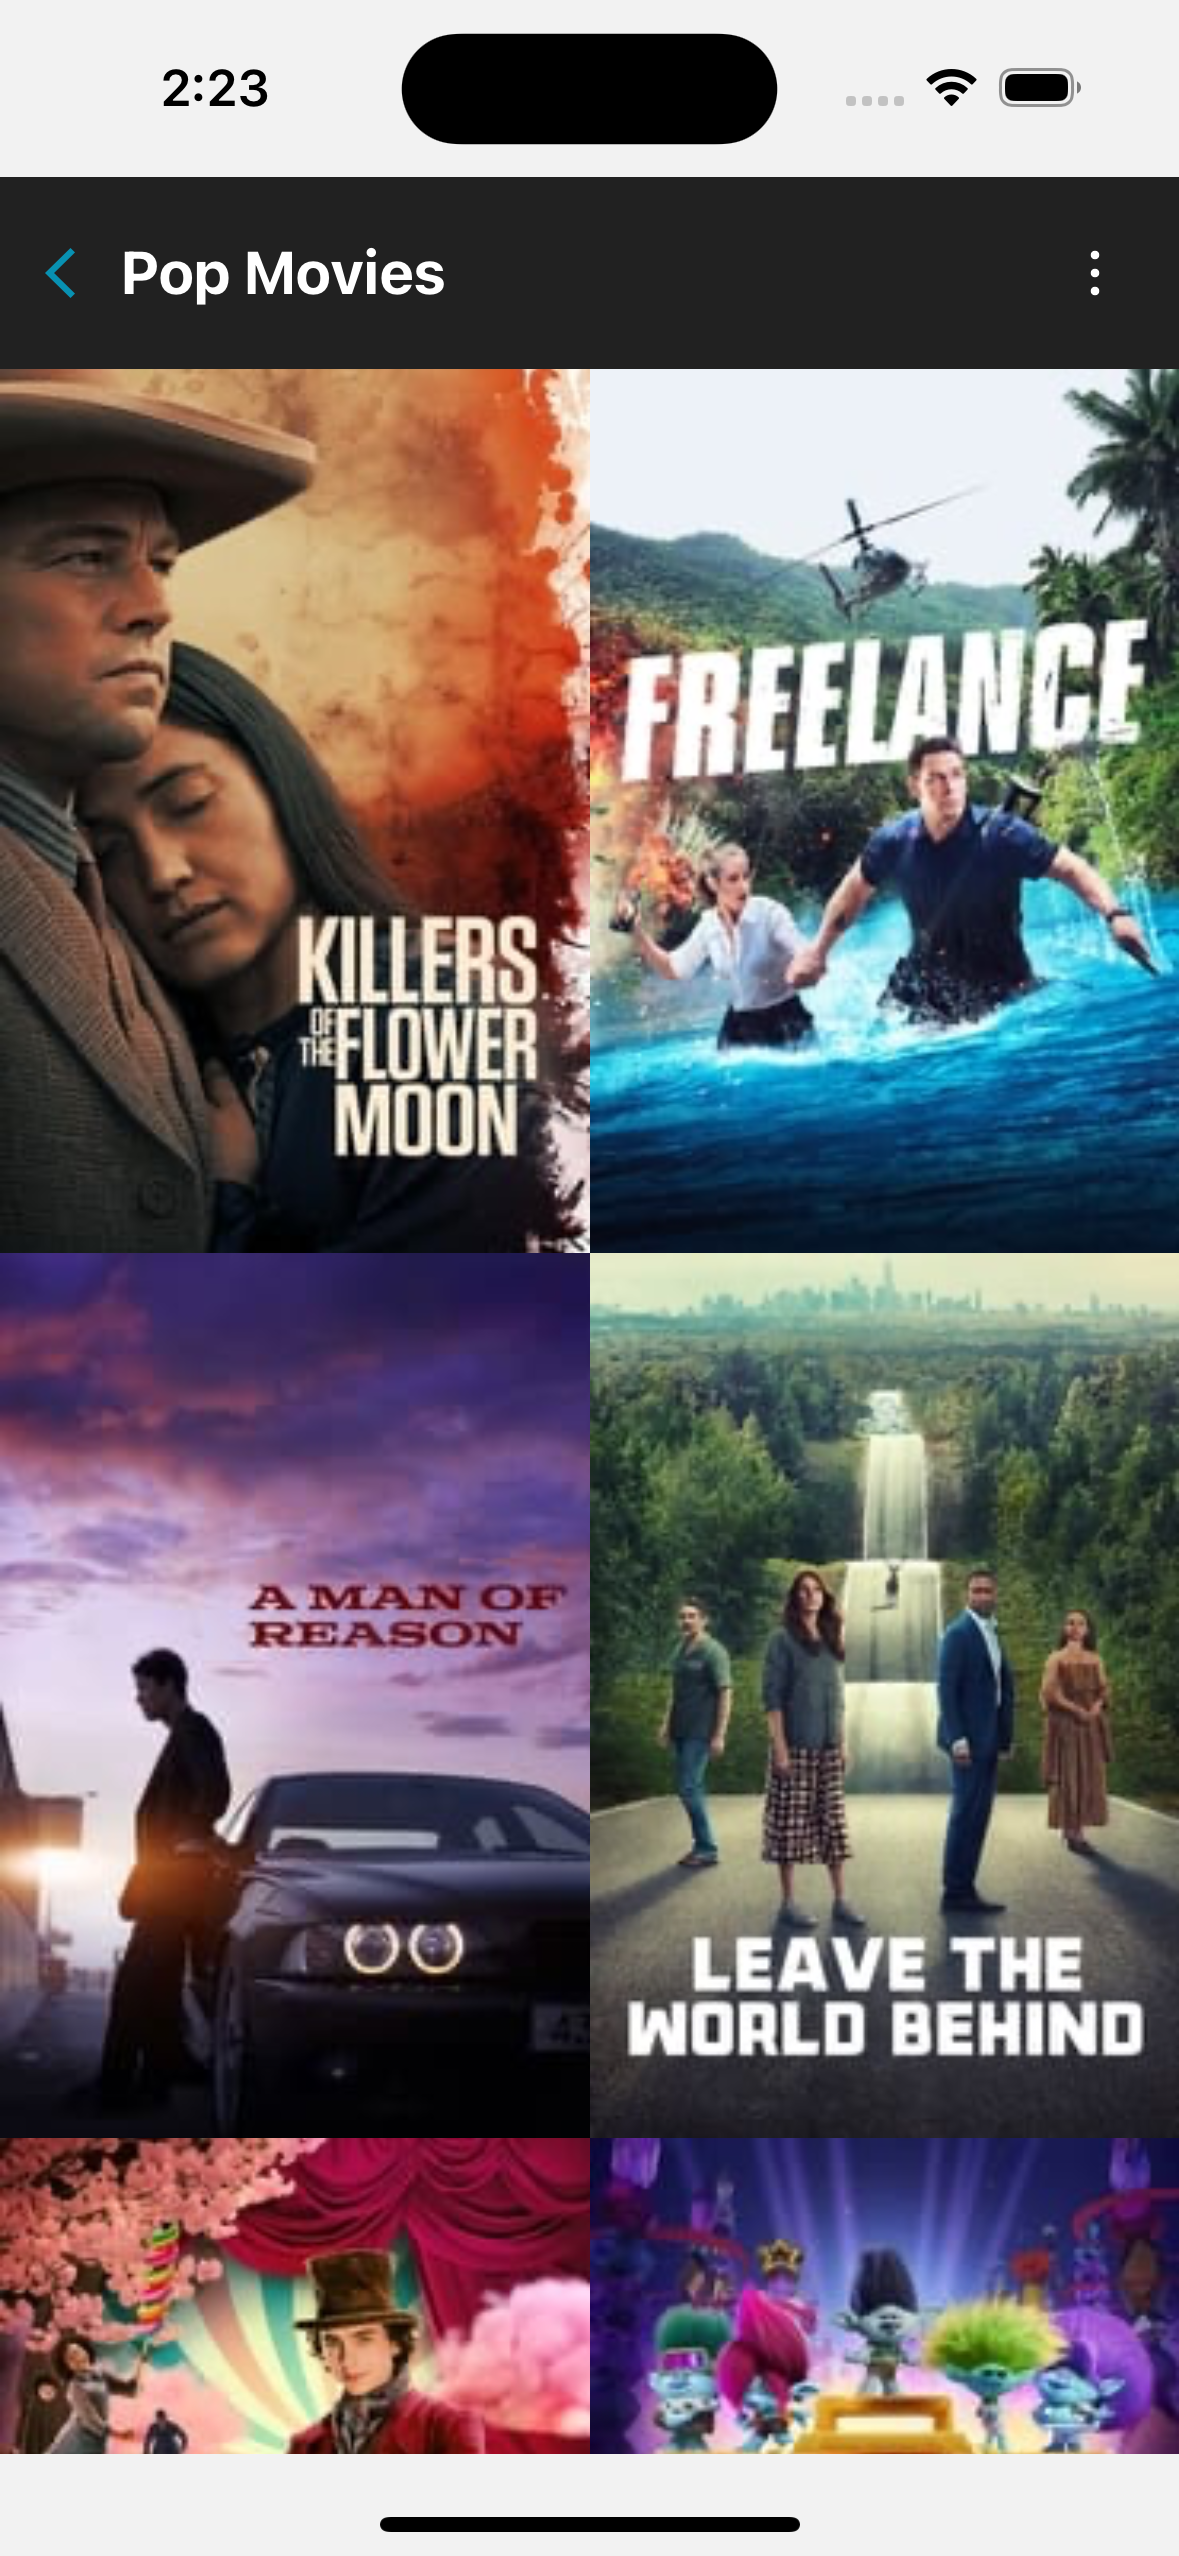
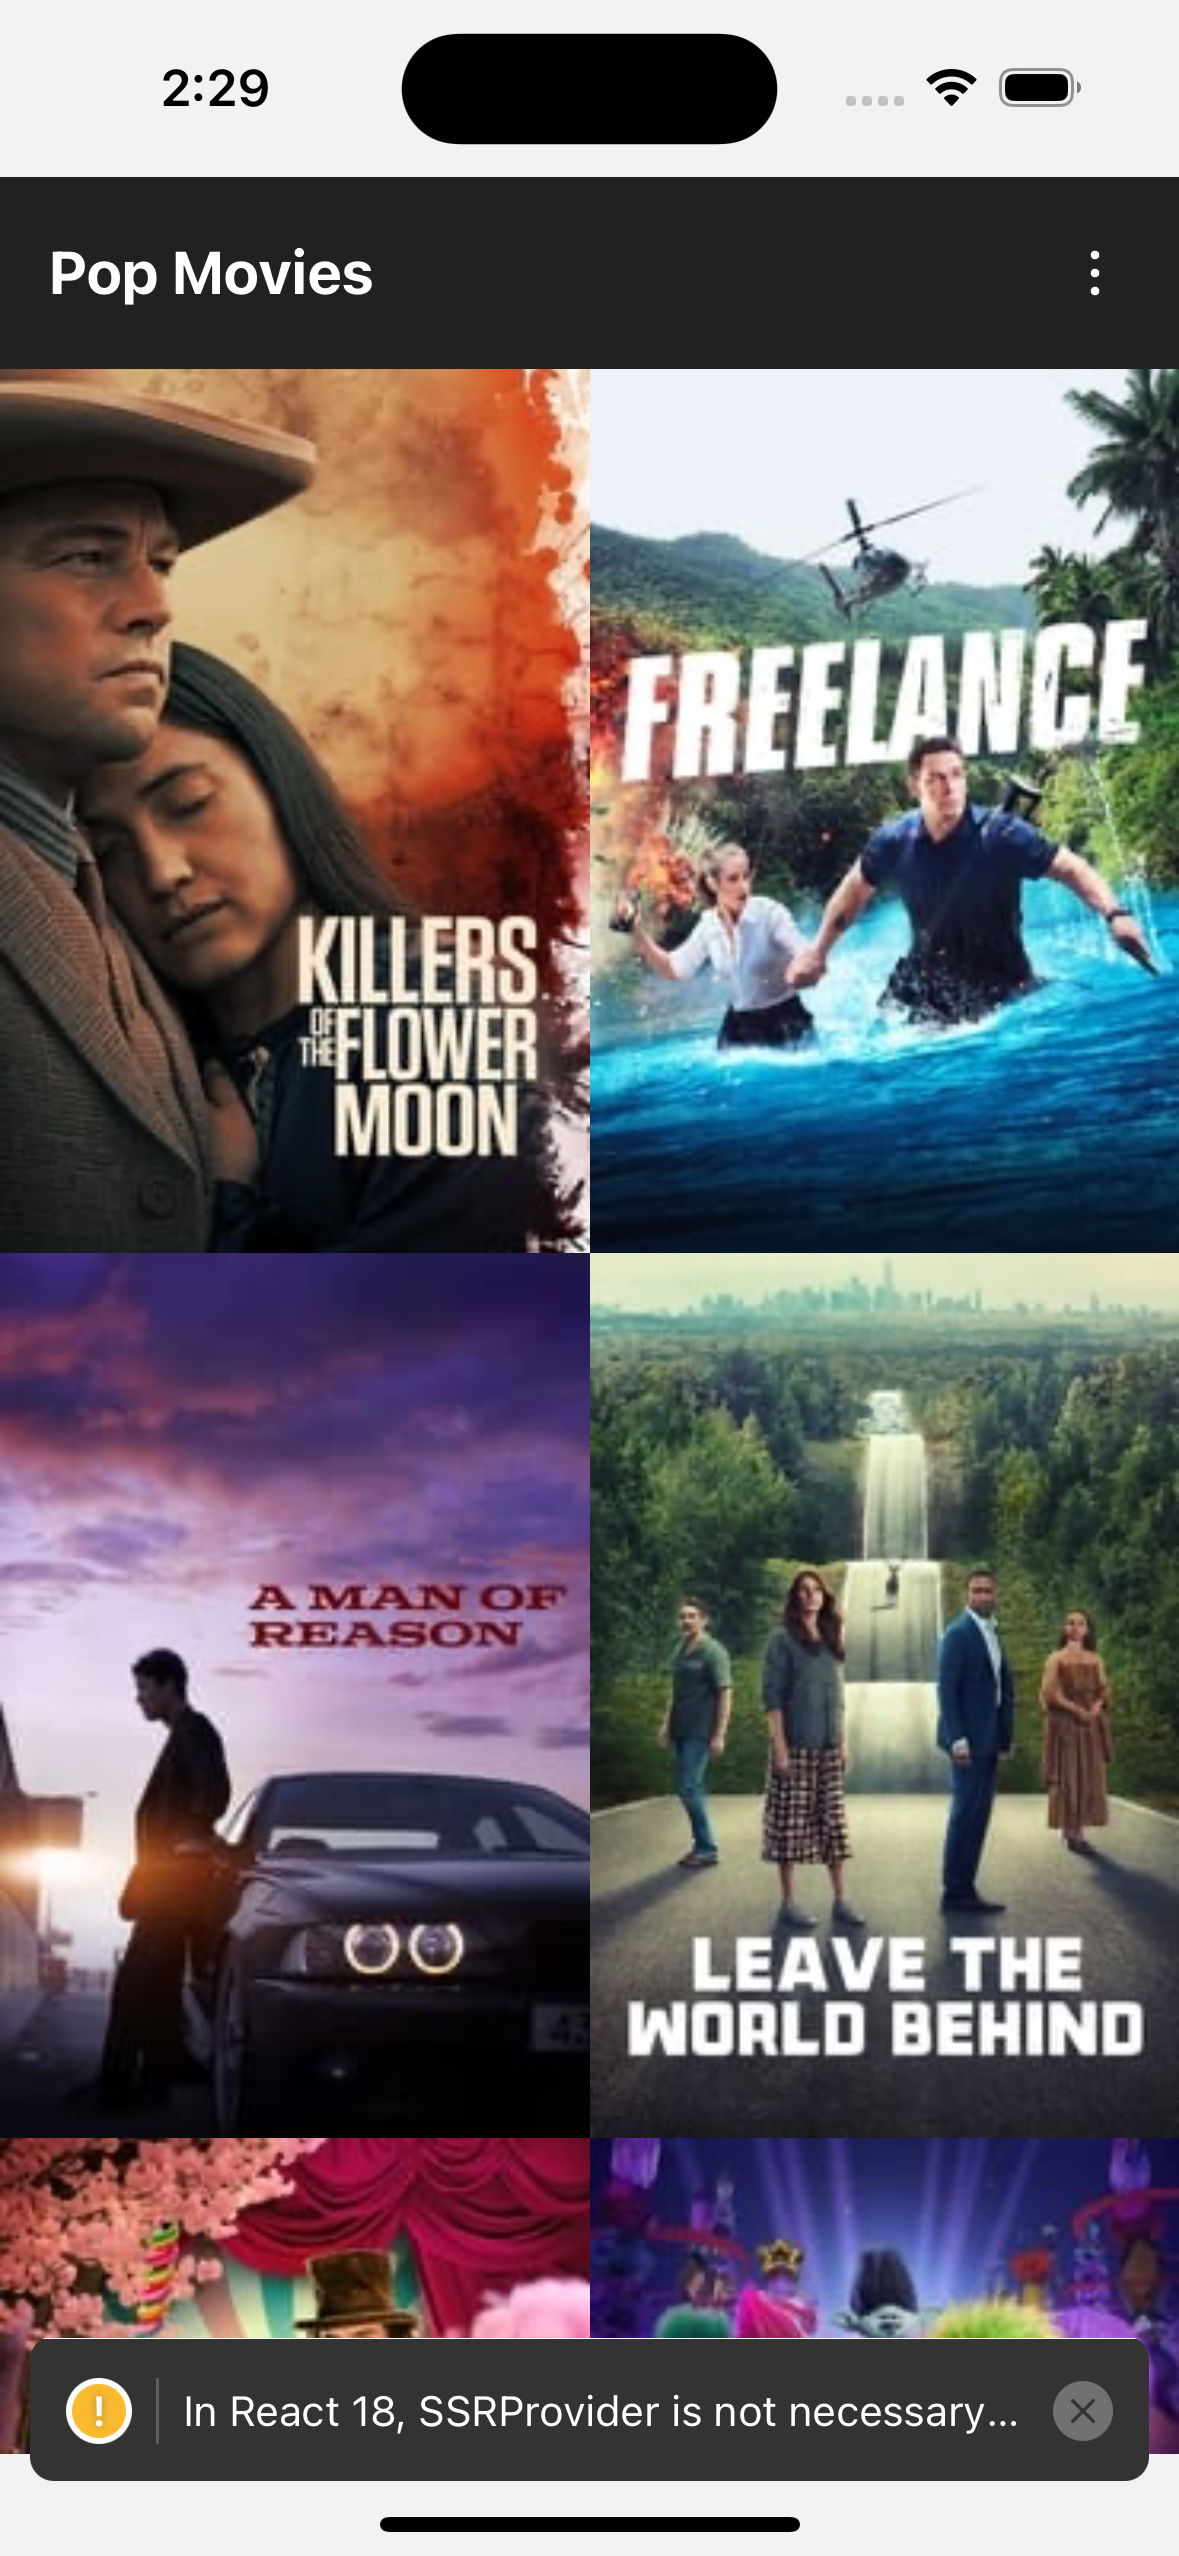
update go back logic

Changed region(s): [[0.0, 0.8963, 0.9771, 0.989], [0.0305, 0.0927, 0.3664, 0.1236]]

diff --git a/src/layout/HeaderLayout/HeaderLayout.tsx b/src/layout/HeaderLayout/HeaderLayout.tsx
@@ -1,4 +1,3 @@
-import {useNavigation} from '@react-navigation/native';
 import {ChevronLeftIcon, HStack, IconButton, Text} from 'native-base';
 import React, {PropsWithChildren} from 'react';
 import {EllipsisVerticalIcon} from 'react-native-heroicons/outline';
@@ -6,19 +5,15 @@ import {SafeAreaView} from 'react-native-safe-area-context';
 
 type HeaderLayoutProps = PropsWithChildren<{
   title: string;
+  goBack?: () => void;
 }>;
 
-export function HeaderLayout({title, children}: HeaderLayoutProps) {
-  const navigation = useNavigation();
+export function HeaderLayout({title, goBack, children}: HeaderLayoutProps) {
   return (
     <SafeAreaView style={{flex: 1}}>
       <HStack alignItems={'center'} bgColor={'gray.dark'} height={16} px={4}>
-        {navigation.canGoBack() && (
-          <IconButton
-            icon={<ChevronLeftIcon />}
-            onPress={navigation.goBack}
-            ml={-4}
-          />
+        {goBack && (
+          <IconButton icon={<ChevronLeftIcon />} onPress={goBack} ml={-4} />
         )}
         <Text flex={1} color="white" fontSize={20} bold>
           {title}

diff --git a/src/screens/Detail/Detail.tsx b/src/screens/Detail/Detail.tsx
@@ -1,4 +1,4 @@
-import {RouteProp, useRoute} from '@react-navigation/native';
+import {RouteProp, useNavigation, useRoute} from '@react-navigation/native';
 import {
   Box,
   Button,
@@ -21,12 +21,13 @@ import {getMoviePosterPath} from '../../utils/util';
 type DetailScreenRouteProp = RouteProp<AppStackParamList, 'Details'>;
 
 export function DetailScreen() {
+  const navigation = useNavigation();
   const route = useRoute<DetailScreenRouteProp>();
   const {movieId} = route.params;
   const {data, isLoading} = useMovieDetail(movieId);
 
   return (
-    <HeaderLayout title="Movie Details">
+    <HeaderLayout title="Movie Details" goBack={navigation.goBack}>
       <Box flex={1} testID="Movie-Details">
         {isLoading && (
           <Center flex={1}>
